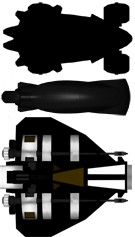
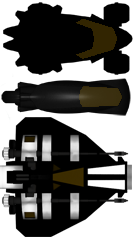
update ghost vehicle shader in space racers show only the ghost from the best lap in space racers

Changed region(s): [[0.563, 0.3544, 0.9185, 0.4726], [0.563, 0.0591, 0.8889, 0.2658]]

diff --git a/space_racers/src/GhostReplay.cpp b/space_racers/src/GhostReplay.cpp
@@ -20,43 +20,29 @@ Copyright 2019 Matt Marchant
 #include "MessageIDs.hpp"
 #include "GameConsts.hpp"
 #include "VehicleSystem.hpp"
+#include "InverseRotationSystem.hpp"
 
 #include <xyginext/ecs/components/Transform.hpp>
 #include <xyginext/ecs/components/Drawable.hpp>
 
 #include <xyginext/ecs/Scene.hpp>
 #include <xyginext/resources/ResourceHandler.hpp>
+#include <xyginext/resources/ShaderResource.hpp>
 
 #include <string>
 
 namespace
 {
-    const std::string GhostFragment =
-        R"(
-            #version 120
-
-            uniform sampler2D u_texture;
-
-            void main()
-            {
-                vec4 colour = texture2D(u_texture, gl_TexCoord[0].xy) * gl_Color;
-                gl_FragColor = colour;
-            }
-        )";
 }
 
-GhostReplay::GhostReplay(xy::Scene& scene, xy::ResourceHandler& resources,
-                            std::array<xy::Sprite, SpriteID::Game::Count>& sprites)
+GhostReplay::GhostReplay(xy::Scene& scene)
     : m_scene           (scene),
-    m_resources         (resources),
-    m_sprites           (sprites),
     m_recordedPoints    (MaxPoints),
     m_recordingIndex    (0),
     m_playbackPoints    (MaxPoints),
     m_playbackIndex     (0),
     m_enabled           (false)
 {
-    m_shader.loadFromMemory(GhostFragment, sf::Shader::Fragment);
 }
 
 //public
@@ -78,6 +64,10 @@ void GhostReplay::handleMessage(const xy::Message& msg)
         {
             m_enabled = false;
         }
+        else if (data.type == GameEvent::NewBestTime)
+        {
+            m_playbackPoints.swap(m_recordedPoints);
+        }
     }
     else if (msg.id == MessageID::VehicleMessage)
     {
@@ -86,7 +76,6 @@ void GhostReplay::handleMessage(const xy::Message& msg)
         {
         default: break;
         case VehicleEvent::LapLine:
-            m_playbackPoints.swap(m_recordedPoints);
             m_playbackIndex = 0;
             m_recordingIndex = 0;
 
@@ -130,22 +119,25 @@ void GhostReplay::createGhost()
     auto entity = m_scene.createEntity();
     entity.addComponent<xy::Transform>().setPosition(m_playbackPoints[0].x, m_playbackPoints[0].y);
     entity.getComponent<xy::Transform>().setRotation(m_playbackPoints[0].rotation);
-    entity.addComponent<xy::Drawable>().setDepth(GameConst::VehicleRenderDepth);
-    entity.getComponent<xy::Drawable>().setShader(&m_shader);
-    entity.getComponent<xy::Drawable>().setBlendMode(sf::BlendMultiply);
-    entity.getComponent<xy::Drawable>().bindUniformToCurrentTexture("u_texture");
+    entity.addComponent<InverseRotation>();
+    entity.addComponent<xy::Drawable>().setDepth(GameConst::VehicleRenderDepth+1);
+    entity.getComponent<xy::Drawable>().setShader(&m_resources.shaders->get(ShaderID::Ghost));
+    entity.getComponent<xy::Drawable>().bindUniformToCurrentTexture("u_diffuseMap");
+    entity.getComponent<xy::Drawable>().bindUniform("u_normalMap", m_resources.resources->get<sf::Texture>(m_resources.textureIDs->at(TextureID::Game::VehicleNormal)));
+    entity.getComponent<xy::Drawable>().bindUniform("u_specularMap", m_resources.resources->get<sf::Texture>(m_resources.textureIDs->at(TextureID::Game::VehicleSpecular)));
+    entity.getComponent<xy::Drawable>().bindUniform("u_lightRotationMatrix", entity.getComponent<InverseRotation>().matrix.getMatrix());
 
     switch (m_playerEntity.getComponent<Vehicle>().type)
     {
     default:
     case Vehicle::Car:
-        entity.addComponent<xy::Sprite>() = m_sprites[SpriteID::Game::Car];
+        entity.addComponent<xy::Sprite>() = m_resources.sprites->at(SpriteID::Game::Car);
         break;
     case Vehicle::Bike:
-        entity.addComponent<xy::Sprite>() = m_sprites[SpriteID::Game::Bike];
+        entity.addComponent<xy::Sprite>() = m_resources.sprites->at(SpriteID::Game::Bike);
         break;
     case Vehicle::Ship:
-        entity.addComponent<xy::Sprite>() = m_sprites[SpriteID::Game::Ship];
+        entity.addComponent<xy::Sprite>() = m_resources.sprites->at(SpriteID::Game::Ship);
         break;
     }
 

diff --git a/space_racers/src/TimeTrialState.cpp b/space_racers/src/TimeTrialState.cpp
@@ -79,7 +79,7 @@ TimeTrialState::TimeTrialState(xy::StateStack& ss, xy::State::Context ctx, Share
     m_backgroundScene   (ctx.appInstance.getMessageBus()),
     m_gameScene         (ctx.appInstance.getMessageBus()),
     m_uiScene           (ctx.appInstance.getMessageBus()),
-    m_replay            (m_gameScene, m_resources, m_sprites),
+    m_replay            (m_gameScene),
     m_uiSounds          (m_audioResource),
     m_mapParser         (m_gameScene),
     m_renderPath        (m_resources),
@@ -89,6 +89,13 @@ TimeTrialState::TimeTrialState(xy::StateStack& ss, xy::State::Context ctx, Share
     launchLoadingScreen();
     initScene();
     loadResources();
+
+    ResourceCollection rc;
+    rc.resources = &m_resources;
+    rc.shaders = &m_shaders;
+    rc.sprites = &m_sprites;
+    rc.textureIDs = &m_textureIDs;
+    m_replay.setResources(rc);
 
     if (!loadMap())
     {
@@ -303,6 +310,7 @@ bool TimeTrialState::update(float dt)
     shaderTime += dt;
     m_shaders.get(ShaderID::Globe).setUniform("u_time", shaderTime / 100.f);
     m_shaders.get(ShaderID::Asteroid).setUniform("u_time", -shaderTime / 10.f);
+    m_shaders.get(ShaderID::Ghost).setUniform("u_time", -shaderTime / 10.f);
 
     m_replay.update();
 
@@ -437,6 +445,7 @@ void TimeTrialState::loadResources()
     m_shaders.preload(ShaderID::Globe, GlobeFragment, sf::Shader::Fragment);
     m_shaders.preload(ShaderID::Asteroid, SpriteVertex, GlobeFragment);
     m_shaders.preload(ShaderID::Vehicle, VehicleVertex, VehicleFrag);
+    m_shaders.preload(ShaderID::Ghost, VehicleVertex, GhostFrag);
     m_shaders.preload(ShaderID::Trail, VehicleTrail, sf::Shader::Fragment);
 
     //only set these once if we can help it - no access to uniform IDs

diff --git a/space_racers/include/GhostReplay.hpp b/space_racers/include/GhostReplay.hpp
@@ -26,8 +26,6 @@ Copyright 2019 Matt Marchant
 #include <xyginext/ecs/Entity.hpp>
 #include <xyginext/ecs/components/Sprite.hpp>
 
-#include <SFML/Graphics/Shader.hpp>
-
 #include <vector>
 #include <array>
 
@@ -36,14 +34,25 @@ namespace xy
     class Message;
     class Scene;
     class ResourceHandler;
+    class ShaderResource;
 }
+
+struct ResourceCollection final
+{
+    xy::ResourceHandler* resources = nullptr;
+    xy::ShaderResource* shaders = nullptr;
+    const std::array<xy::Sprite, SpriteID::Game::Count>* sprites = nullptr;
+    const std::array<std::size_t, TextureID::Game::Count>* textureIDs = nullptr;
+};
 
 class GhostReplay final
 {
 public:
-    GhostReplay(xy::Scene&, xy::ResourceHandler&, std::array<xy::Sprite, SpriteID::Game::Count>&);
+    GhostReplay(xy::Scene&);
 
     void setPlayerEntity(xy::Entity);
+
+    void setResources(ResourceCollection rc) { m_resources = rc; }
 
     void handleMessage(const xy::Message&);
 
@@ -52,8 +61,7 @@ public:
 private:
 
     xy::Scene& m_scene;
-    xy::ResourceHandler& m_resources;
-    std::array<xy::Sprite, SpriteID::Game::Count>& m_sprites;
+    ResourceCollection m_resources;
 
     struct Point final
     {
@@ -77,8 +85,6 @@ private:
     xy::Entity m_playerEntity;
 
     bool m_enabled;
-
-    sf::Shader m_shader;
 
     void createGhost();
 };

diff --git a/space_racers/src/MenuState.cpp b/space_racers/src/MenuState.cpp
@@ -102,6 +102,8 @@ MenuState::MenuState(xy::StateStack& ss, xy::State::Context ctx, SharedData& sd)
         m_sharedData.hosting = false;
     }
 
+    LOG("PROPERLY RESTORE LAP COUNT", xy::Logger::Type::Info);
+    m_sharedData.gameData.lapCount = 3;
 
     initScene();
     loadResources();
@@ -117,8 +119,6 @@ MenuState::MenuState(xy::StateStack& ss, xy::State::Context ctx, SharedData& sd)
             requestStackPush(StateID::Debug);
         });
 
-    LOG("PROPERLY RESTORE LAP COUNT", xy::Logger::Type::Info);
-    m_sharedData.gameData.lapCount = 3;
 
     for (auto i = 0; i < 4; ++i)
     {

diff --git a/space_racers/src/TimeTrialDirector.cpp b/space_racers/src/TimeTrialDirector.cpp
@@ -91,6 +91,9 @@ void TimeTrialDirector::handleMessage(const xy::Message& msg)
                     entity.getComponent<Slider>().active = true;
                 };
                 sendCommand(cmd);
+
+                auto* msg = postMessage<GameEvent>(MessageID::GameMessage);
+                msg->type = GameEvent::NewBestTime;
             }
         }
     }

diff --git a/space_racers/include/StateIDs.hpp b/space_racers/include/StateIDs.hpp
@@ -66,7 +66,7 @@ struct LocalPlayer final
 {
     std::uint32_t vehicle = 0;
     InputBinding inputBinding;
-    bool cpu = false;
+    bool cpu = true;
 };
 
 class ClientLauncher;

diff --git a/space_racers/include/MessageIDs.hpp b/space_racers/include/MessageIDs.hpp
@@ -51,6 +51,7 @@ struct GameEvent final
     {
         RaceStarted,
         RaceEnded,
-        TimedOut
+        TimedOut,
+        NewBestTime
     }type = RaceStarted;
 };

diff --git a/space_racers/include/ResourceIDs.hpp b/space_racers/include/ResourceIDs.hpp
@@ -35,6 +35,7 @@ namespace ShaderID
         NeonBlend,
         NeonExtract,
         Vehicle,
+        Ghost,
         Trail,
         Stars,
         MonitorScreen,
